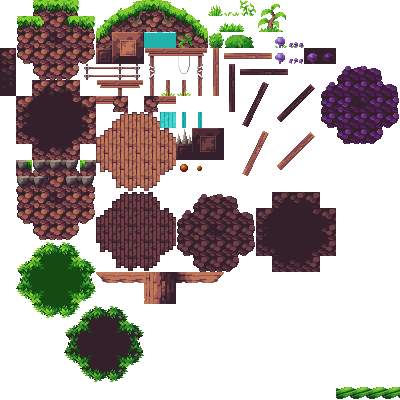
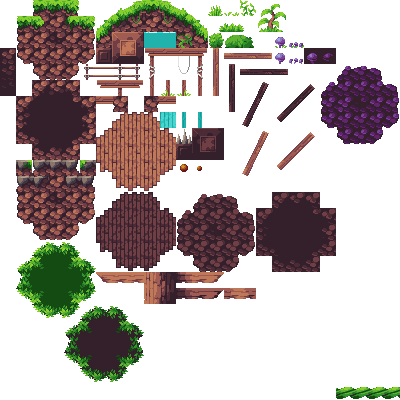
add platforms

Changed region(s): [[0.42, 0.72, 0.66, 0.75]]

diff --git a/src/map/walls.rs b/src/map/walls.rs
@@ -1,8 +1,28 @@
-use crate::Wall;
 use bevy::prelude::*;
 use bevy_ecs_ldtk::prelude::*;
 use bevy_rapier2d::prelude::*;
 use std::collections::{HashMap, HashSet};
+#[derive(Copy, Clone, Eq, PartialEq, Default, Debug, Component, Hash)]
+pub enum Wall {
+    #[default]
+    Solid,
+    Platform,
+}
+
+#[derive(Clone, Debug, Bundle, LdtkIntCell)]
+pub struct WallBundle {
+    #[ldtk_int_cell]
+    wall: Wall,
+}
+impl LdtkIntCell for Wall {
+    fn bundle_int_cell(int_grid_cell: IntGridCell, _layer_instance: &LayerInstance) -> Self {
+        if int_grid_cell.value == 4 {
+            Wall::Platform
+        } else {
+            Wall::Solid
+        }
+    }
+}
 
 /// Spawns heron collisions for the walls of a level
 ///
@@ -22,7 +42,7 @@ use std::collections::{HashMap, HashSet};
 /// 4. spawn colliders for each rectangle
 pub fn spawn_walls(
     mut commands: Commands,
-    wall_query: Query<(&GridCoords, &Parent), Added<Wall>>,
+    wall_query: Query<(&GridCoords, &Parent, &Wall), Added<Wall>>,
     parent_query: Query<&Parent, Without<Wall>>,
     level_query: Query<(Entity, &Handle<LdtkLevel>)>,
     levels: Res<Assets<LdtkLevel>>,
@@ -33,6 +53,7 @@ pub fn spawn_walls(
     struct Plate {
         left: i32,
         right: i32,
+        wall_type: Wall,
     }
 
     /// A simple rectangle type representing a wall of any size
@@ -41,6 +62,7 @@ pub fn spawn_walls(
         right: i32,
         top: i32,
         bottom: i32,
+        wall_type: Wall,
     }
 
     // Consider where the walls are
@@ -50,9 +72,9 @@ pub fn spawn_walls(
     // This has two consequences in the resulting collision entities:
     // 1. it forces the walls to be split along level boundaries
     // 2. it lets us easily add the collision entities as children of the appropriate level entity
-    let mut level_to_wall_locations: HashMap<Entity, HashSet<GridCoords>> = HashMap::new();
+    let mut level_to_wall_locations: HashMap<Entity, HashSet<(GridCoords, &Wall)>> = HashMap::new();
 
-    wall_query.for_each(|(&grid_coords, parent)| {
+    wall_query.for_each(|(&grid_coords, parent, wall)| {
         // An intgrid tile's direct parent will be a layer entity, not the level entity
         // To get the level entity, you need the tile's grandparent.
         // This is where parent_query comes in.
@@ -60,7 +82,7 @@ pub fn spawn_walls(
             level_to_wall_locations
                 .entry(grandparent.get())
                 .or_default()
-                .insert(grid_coords);
+                .insert((grid_coords, wall));
         }
     });
 
@@ -84,29 +106,31 @@ pub fn spawn_walls(
 
                 // combine wall tiles into flat "plates" in each individual row
                 let mut plate_stack: Vec<Vec<Plate>> = Vec::new();
-
                 for y in 0..height {
                     let mut row_plates: Vec<Plate> = Vec::new();
                     let mut plate_start = None;
-
                     // + 1 to the width so the algorithm "terminates" plates that touch the right edge
-                    for x in 0..width + 1 {
-                        match (plate_start, level_walls.contains(&GridCoords { x, y })) {
-                            (Some(s), false) => {
-                                row_plates.push(Plate {
-                                    left: s,
-                                    right: x - 1,
-                                });
-                                plate_start = None;
+                    for wall_type in &[Wall::Solid, Wall::Platform] {
+                        for x in 0..width + 1 {
+                            match (
+                                (plate_start),
+                                level_walls.contains(&(GridCoords { x, y }, wall_type)),
+                            ) {
+                                (Some(s), false) => {
+                                    row_plates.push(Plate {
+                                        left: s,
+                                        right: x - 1,
+                                        wall_type: wall_type.clone(),
+                                    });
+                                    plate_start = None;
+                                }
+                                (None, true) => plate_start = Some(x),
+                                _ => (),
                             }
-                            (None, true) => plate_start = Some(x),
-                            _ => (),
                         }
                     }
-
                     plate_stack.push(row_plates);
                 }
-
                 // combine "plates" into rectangles across multiple rows
                 let mut rect_builder: HashMap<Plate, Rect> = HashMap::new();
                 let mut prev_row: Vec<Plate> = Vec::new();
@@ -133,6 +157,7 @@ pub fn spawn_walls(
                                 top: y as i32,
                                 left: plate.left,
                                 right: plate.right,
+                                wall_type: plate.wall_type.clone(),
                             });
                     }
                     prev_row = current_row;
@@ -144,17 +169,15 @@ pub fn spawn_walls(
                     // 1. Adjusts the transforms to be relative to the level for free
                     // 2. the colliders will be despawned automatically when levels unload
                     for wall_rect in wall_rects {
-                        level
-                            .spawn_empty()
-                            .insert(Collider::cuboid(
-                                (wall_rect.right as f32 - wall_rect.left as f32 + 1.)
-                                    * grid_size as f32
-                                    / 2.,
-                                (wall_rect.top as f32 - wall_rect.bottom as f32 + 1.)
-                                    * grid_size as f32
-                                    / 2.,
-                            ))
-                            .insert(RigidBody::Fixed)
+                        let mut wall = level.spawn(Collider::cuboid(
+                            (wall_rect.right as f32 - wall_rect.left as f32 + 1.)
+                                * grid_size as f32
+                                / 2.,
+                            (wall_rect.top as f32 - wall_rect.bottom as f32 + 1.)
+                                * grid_size as f32
+                                / 2.,
+                        ));
+                        wall.insert(RigidBody::Fixed)
                             .insert(Transform::from_xyz(
                                 (wall_rect.left + wall_rect.right + 1) as f32 * grid_size as f32
                                     / 2.,
@@ -163,6 +186,10 @@ pub fn spawn_walls(
                                 0.,
                             ))
                             .insert(GlobalTransform::default());
+
+                        if wall_rect.wall_type == Wall::Platform {
+                            wall.insert(CollisionGroups::new(Group::GROUP_1, Group::ALL));
+                        }
                     }
                 });
             }

diff --git a/src/map/map.rs b/src/map/map.rs
@@ -1,32 +1,25 @@
+use crate::*;
 use bevy::prelude::*;
 use bevy_ecs_ldtk::prelude::*;
-
-use crate::*;
 #[derive(Component)]
 pub struct Level;
 
-#[derive(Copy, Clone, Eq, PartialEq, Debug, Default, Component)]
-pub struct Wall;
-
-#[derive(Clone, Debug, Default, Bundle, LdtkIntCell)]
-pub struct WallBundle {
-    wall: Wall,
-}
-
 pub fn map_plugin(app: &mut App) {
-    app.insert_resource(LevelSelection::Index(0));
-    app.register_ldtk_int_cell::<WallBundle>(1);
-    app.register_ldtk_int_cell::<WallBundle>(2);
-    app.register_ldtk_int_cell::<WallBundle>(3);
-    app.register_ldtk_entity::<PlayerBundle>("Player");
-    app.register_ldtk_entity::<EnemyBundle>("Enemy");
-    app.register_ldtk_entity::<CollectibleBundle>("Collectible");
-    app.insert_resource(LdtkSettings {
-        set_clear_color: SetClearColor::FromLevelBackground,
-        ..Default::default()
-    });
-    app.add_system(spawn_map.in_schedule(OnExit(GameState::LevelSelect)));
-    app.add_system(despawn_map.in_schedule(OnEnter(GameState::LevelSelect)));
+    app.insert_resource(LevelSelection::Index(0))
+        .register_ldtk_int_cell::<WallBundle>(1)
+        .register_ldtk_int_cell::<WallBundle>(2)
+        .register_ldtk_int_cell::<WallBundle>(3)
+        .register_ldtk_int_cell::<WallBundle>(4)
+        .register_ldtk_entity::<PlayerBundle>("Player")
+        .register_ldtk_entity::<EnemyBundle>("Enemy")
+        .register_ldtk_entity::<CollectibleBundle>("Collectible")
+        .insert_resource(LdtkSettings {
+            set_clear_color: SetClearColor::FromLevelBackground,
+            ..Default::default()
+        })
+        .add_system(spawn_map.in_schedule(OnExit(GameState::LevelSelect)))
+        .add_system(despawn_map.in_schedule(OnEnter(GameState::LevelSelect)))
+        .add_system(jump_throught_platforms.in_set(OnUpdate(GameState::Run)));
 }
 
 #[derive(Resource)]

diff --git a/src/player/spawn_player.rs b/src/player/spawn_player.rs
@@ -20,17 +20,6 @@ pub fn spawn_player(
     for entity in player_query.iter() {
         let collider = Collider::cuboid(7.0, 10.5);
         let bundle = (
-            assets.bird_idle.clone(),
-            AnimationSprites {
-                idle: assets.bird_idle.clone(),
-                running: assets.bird_run.clone(),
-                jumping: assets.bird_jump.clone(),
-                hurt: assets.bird_hurt.clone(),
-            },
-            TextureAtlasSprite {
-                anchor: Anchor::Custom(Vec2::new(0.0, (-10.5 / 32.0) / 2.0)),
-                ..default()
-            },
             AnimationTimer::default(),
             DirectionComponent(SpriteDirection::Right),
             RigidBody::Dynamic,
@@ -68,6 +57,7 @@ pub fn spawn_player(
 
                 ..default()
             },
+            CollisionGroups::new(Group::GROUP_2, Group::ALL),
             InputManagerBundle::<PlayerAction> {
                 action_state: ActionState::default(),
                 input_map: get_player_input_map(),
@@ -77,6 +67,17 @@ pub fn spawn_player(
         commands.entity(entity).insert(bundle).insert((
             AnimationState::default(),
             DeathAnimation(assets.bird_death.clone()),
+            assets.bird_idle.clone(),
+            AnimationSprites {
+                idle: assets.bird_idle.clone(),
+                running: assets.bird_run.clone(),
+                jumping: assets.bird_jump.clone(),
+                hurt: assets.bird_hurt.clone(),
+            },
+            TextureAtlasSprite {
+                anchor: Anchor::Custom(Vec2::new(0.0, (-10.5 / 32.0) / 2.0)),
+                ..default()
+            },
         ));
     }
 }

diff --git a/src/map/platform.rs b/src/map/platform.rs
@@ -1,0 +1,36 @@
+use crate::*;
+use bevy::prelude::*;
+use bevy_rapier2d::prelude::*;
+use bevy_tnua::TnuaPlatformerAnimatingOutput;
+use leafwing_input_manager::prelude::*;
+// use bevy_rapier2d::prelude::*;
+
+pub fn jump_throught_platforms(
+    mut player_query: Query<
+        (
+            &mut CollisionGroups,
+            &ActionState<PlayerAction>,
+            &TnuaPlatformerAnimatingOutput,
+        ),
+        With<Player>,
+    >,
+) {
+    for (mut collision_groups, action_state, tnua_output) in player_query.iter_mut() {
+        let pass_throught = || {
+            if action_state.pressed(PlayerAction::Crouch) {
+                return true;
+            }
+            if let Some(jumping_velocity) = tnua_output.jumping_velocity {
+                if jumping_velocity > 0.0 {
+                    return true;
+                }
+            }
+            return false;
+        };
+        if pass_throught() {
+            collision_groups.filters = Group::ALL - Group::GROUP_1
+        } else {
+            collision_groups.filters = Group::ALL
+        }
+    }
+}

diff --git a/src/player/player_controls.rs b/src/player/player_controls.rs
@@ -7,22 +7,27 @@ pub enum PlayerAction {
     MoveRight,
     Run,
     Jump,
+    Crouch,
 }
 pub fn get_player_input_map() -> InputMap<PlayerAction> {
     use PlayerAction::*;
     let mut input_map = InputMap::default();
 
-    // Movement
+    // Jump
     input_map.insert(KeyCode::Space, Jump);
     input_map.insert(GamepadButtonType::East, Jump);
-
+    // Move Left
     input_map.insert(KeyCode::Left, MoveLeft);
     input_map.insert(ScanCode(81), MoveLeft);
     input_map.insert(GamepadButtonType::DPadLeft, MoveLeft);
-
+    // Move Right
     input_map.insert(KeyCode::Right, MoveRight);
     input_map.insert(ScanCode(68), MoveRight);
     input_map.insert(GamepadButtonType::DPadRight, MoveRight);
+    // Crouch
+    input_map.insert(KeyCode::Down, Crouch);
+    input_map.insert(KeyCode::Down, Crouch);
+    input_map.insert(GamepadButtonType::DPadDown, Crouch);
 
     return input_map;
 }

diff --git a/src/lib.rs b/src/lib.rs
@@ -11,6 +11,8 @@ mod map {
     pub use self::map::*;
     mod walls;
     pub use self::walls::*;
+    mod platform;
+    pub use self::platform::*;
 }
 pub use map::*;
 
